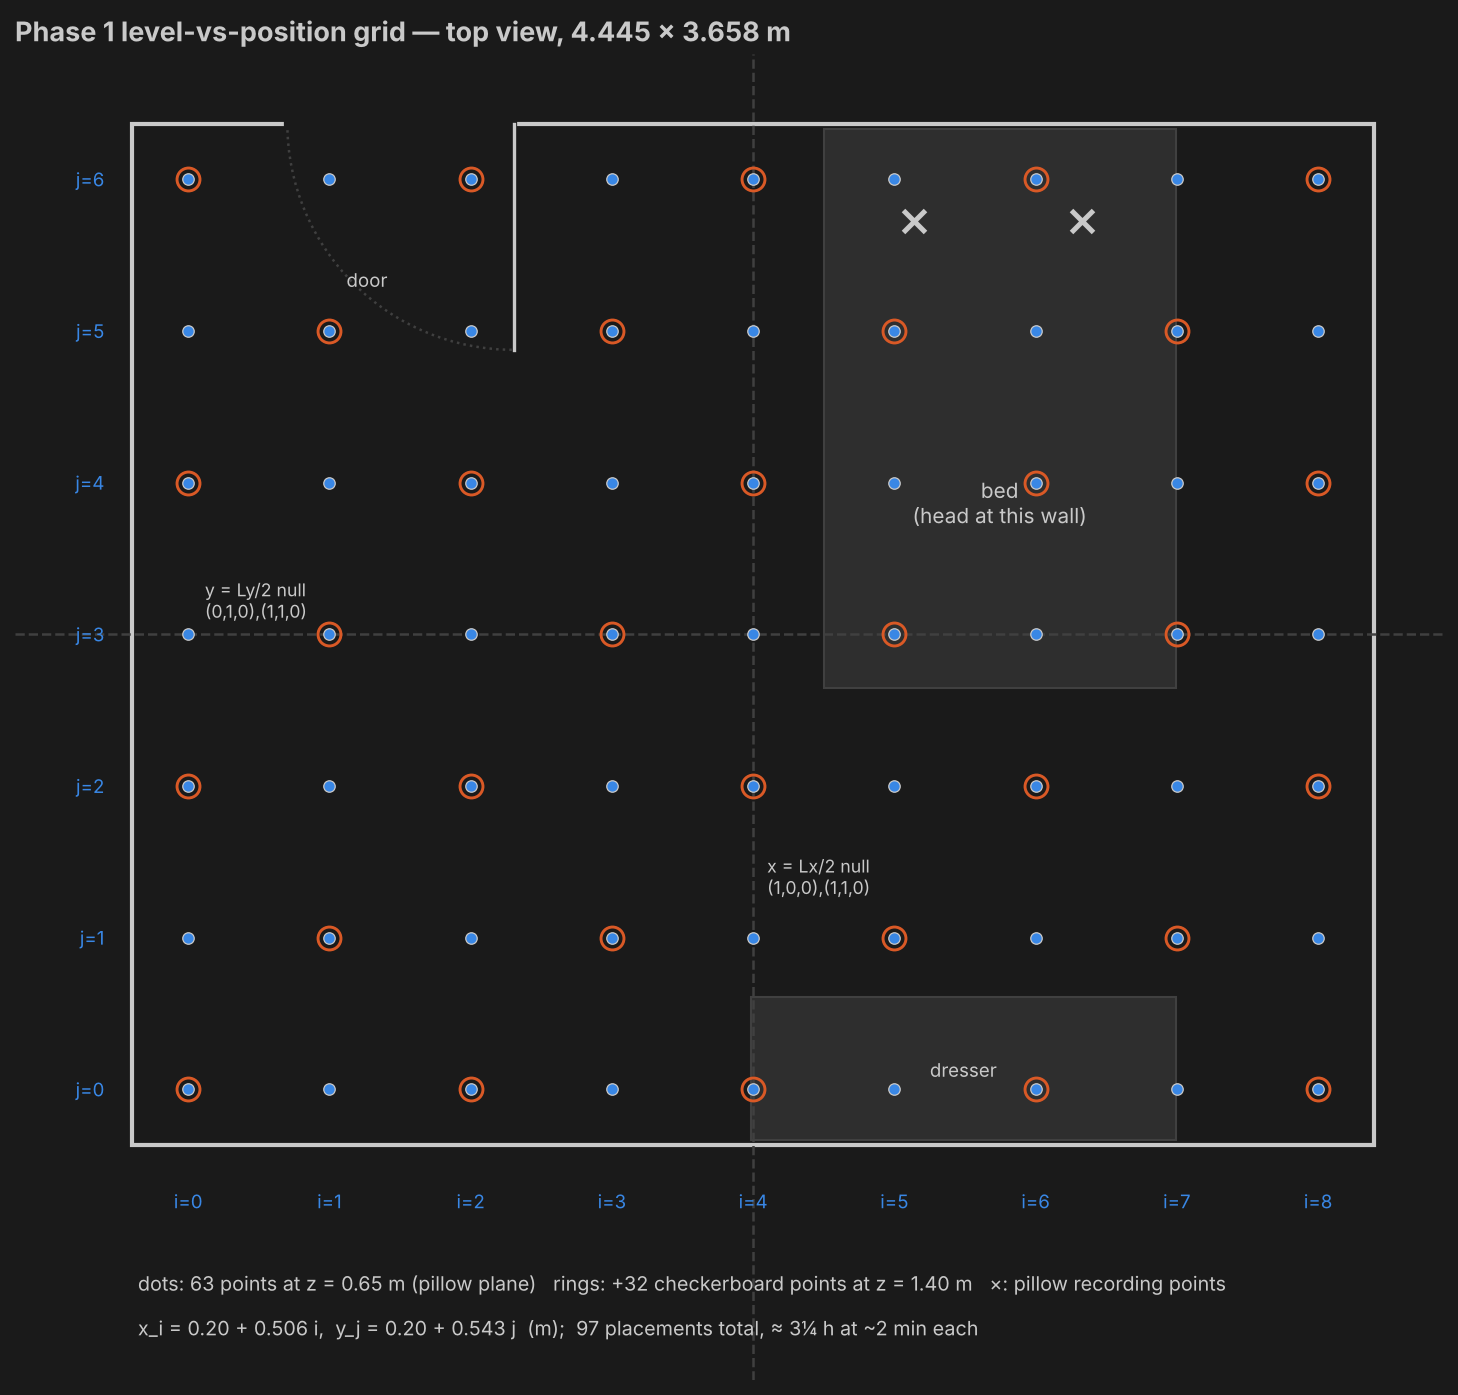
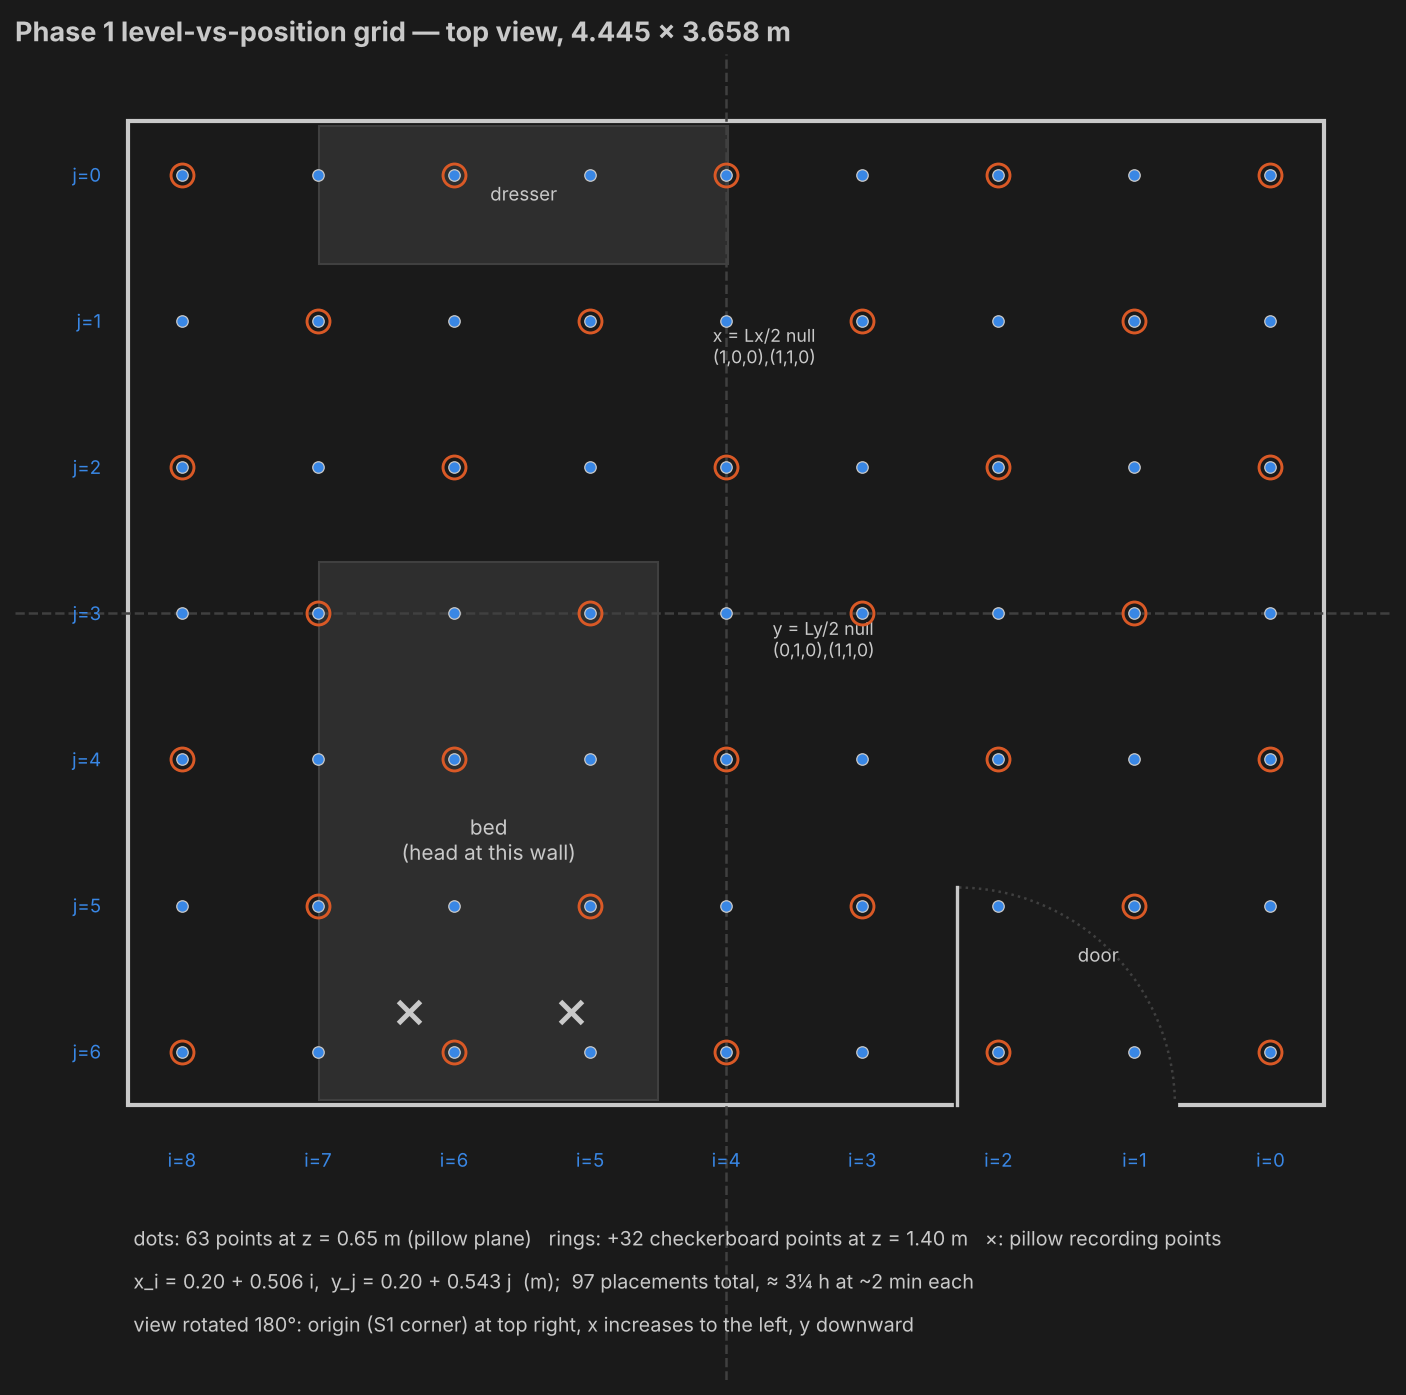
Rotate the grid-diagram view 180 degrees
Per Madi: present the top view rotated 180 degrees, so the S1 origin
sits at the top right with x increasing to the left and y downward.
Coordinates, indices, grid points and the manifest are unchanged; the
axis labels, captions and two annotations move to fit the flipped view,
and a caption line states the orientation.

Claude-Session: https://claude.ai/code/session_016Kdn8B1reQt22sCKZBCnQa

diff --git a/scripts/measurement_grid.py b/scripts/measurement_grid.py
@@ -99,7 +99,7 @@ def draw(path):
     ax.add_patch(Rectangle(BED[:2], BED[2], BED[3], fc=SOFT, ec=GRID, lw=1))
     ax.add_patch(Rectangle(DRESSER[:2], DRESSER[2], DRESSER[3], fc=SOFT,
                            ec=GRID, lw=1))
-    ax.text(BED[0] + BED[2] / 2, 2.30, "bed\n(head at this wall)",
+    ax.text(BED[0] + BED[2] / 2, 2.67, "bed\n(head at this wall)",
             ha="center", va="center", color=INK, fontsize=10)
     ax.text(DRESSER[0] + DRESSER[2] / 2, 0.27, "dresser", ha="center",
             va="center", color=INK, fontsize=9)
@@ -118,7 +118,7 @@ def draw(path):
     ax.axhline(LY / 2, color=GRID, ls="--", lw=1.2)
     ax.text(LX / 2 + 0.05, 0.90, "x = Lx/2 null\n(1,0,0),(1,1,0)",
             color=INK, fontsize=8.5)
-    ax.text(0.26, LY / 2 + 0.06, "y = Ly/2 null\n(0,1,0),(1,1,0)",
+    ax.text(2.05, LY / 2 + 0.16, "y = Ly/2 null\n(0,1,0),(1,1,0)",
             color=INK, fontsize=8.5)
 
     for i, j, k, x, y, _ in grid_points():
@@ -132,23 +132,29 @@ def draw(path):
         ax.plot([x], [y], "x", ms=11, color=INK, mew=2.4, zorder=4)
 
     for i in range(NX):
-        ax.text(DELTA + i * DX, -0.16, f"i={i}", ha="center", va="top",
+        ax.text(DELTA + i * DX, LY + 0.16, f"i={i}", ha="center", va="top",
                 color=SERIES, fontsize=9)
     for j in range(NY):
-        ax.text(-0.10, DELTA + j * DY, f"j={j}", ha="right", va="center",
+        ax.text(LX + 0.10, DELTA + j * DY, f"j={j}", ha="right", va="center",
                 color=SERIES, fontsize=9)
 
-    ax.text(0.02, -0.52,
+    ax.text(LX - 0.02, LY + 0.52,
             "dots: 63 points at z = 0.65 m (pillow plane)   "
             "rings: +32 checkerboard points at z = 1.40 m   "
             "×: pillow recording points", color=INK, fontsize=9.5)
-    ax.text(0.02, -0.68,
+    ax.text(LX - 0.02, LY + 0.68,
             f"x_i = 0.20 + {DX:.3f} i,  y_j = 0.20 + {DY:.3f} j  (m);  "
             "97 placements total, ≈ 3¼ h at ~2 min each",
             color=INK, fontsize=9.5)
+    ax.text(LX - 0.02, LY + 0.84,
+            "view rotated 180°: origin (S1 corner) at top right, "
+            "x increases to the left, y downward",
+            color=INK, fontsize=9.5)
 
-    ax.set_xlim(-0.42, LX + 0.25)
-    ax.set_ylim(-0.84, LY + 0.25)
+    # view rotated 180 deg (per Madi): invert both axes so the S1 origin
+    # sits at the top right; coordinates and indices are unchanged.
+    ax.set_xlim(LX + 0.42, -0.25)
+    ax.set_ylim(LY + 1.02, -0.25)
     ax.set_aspect("equal")
     ax.axis("off")
     ax.set_title("Phase 1 level-vs-position grid — top view, "
